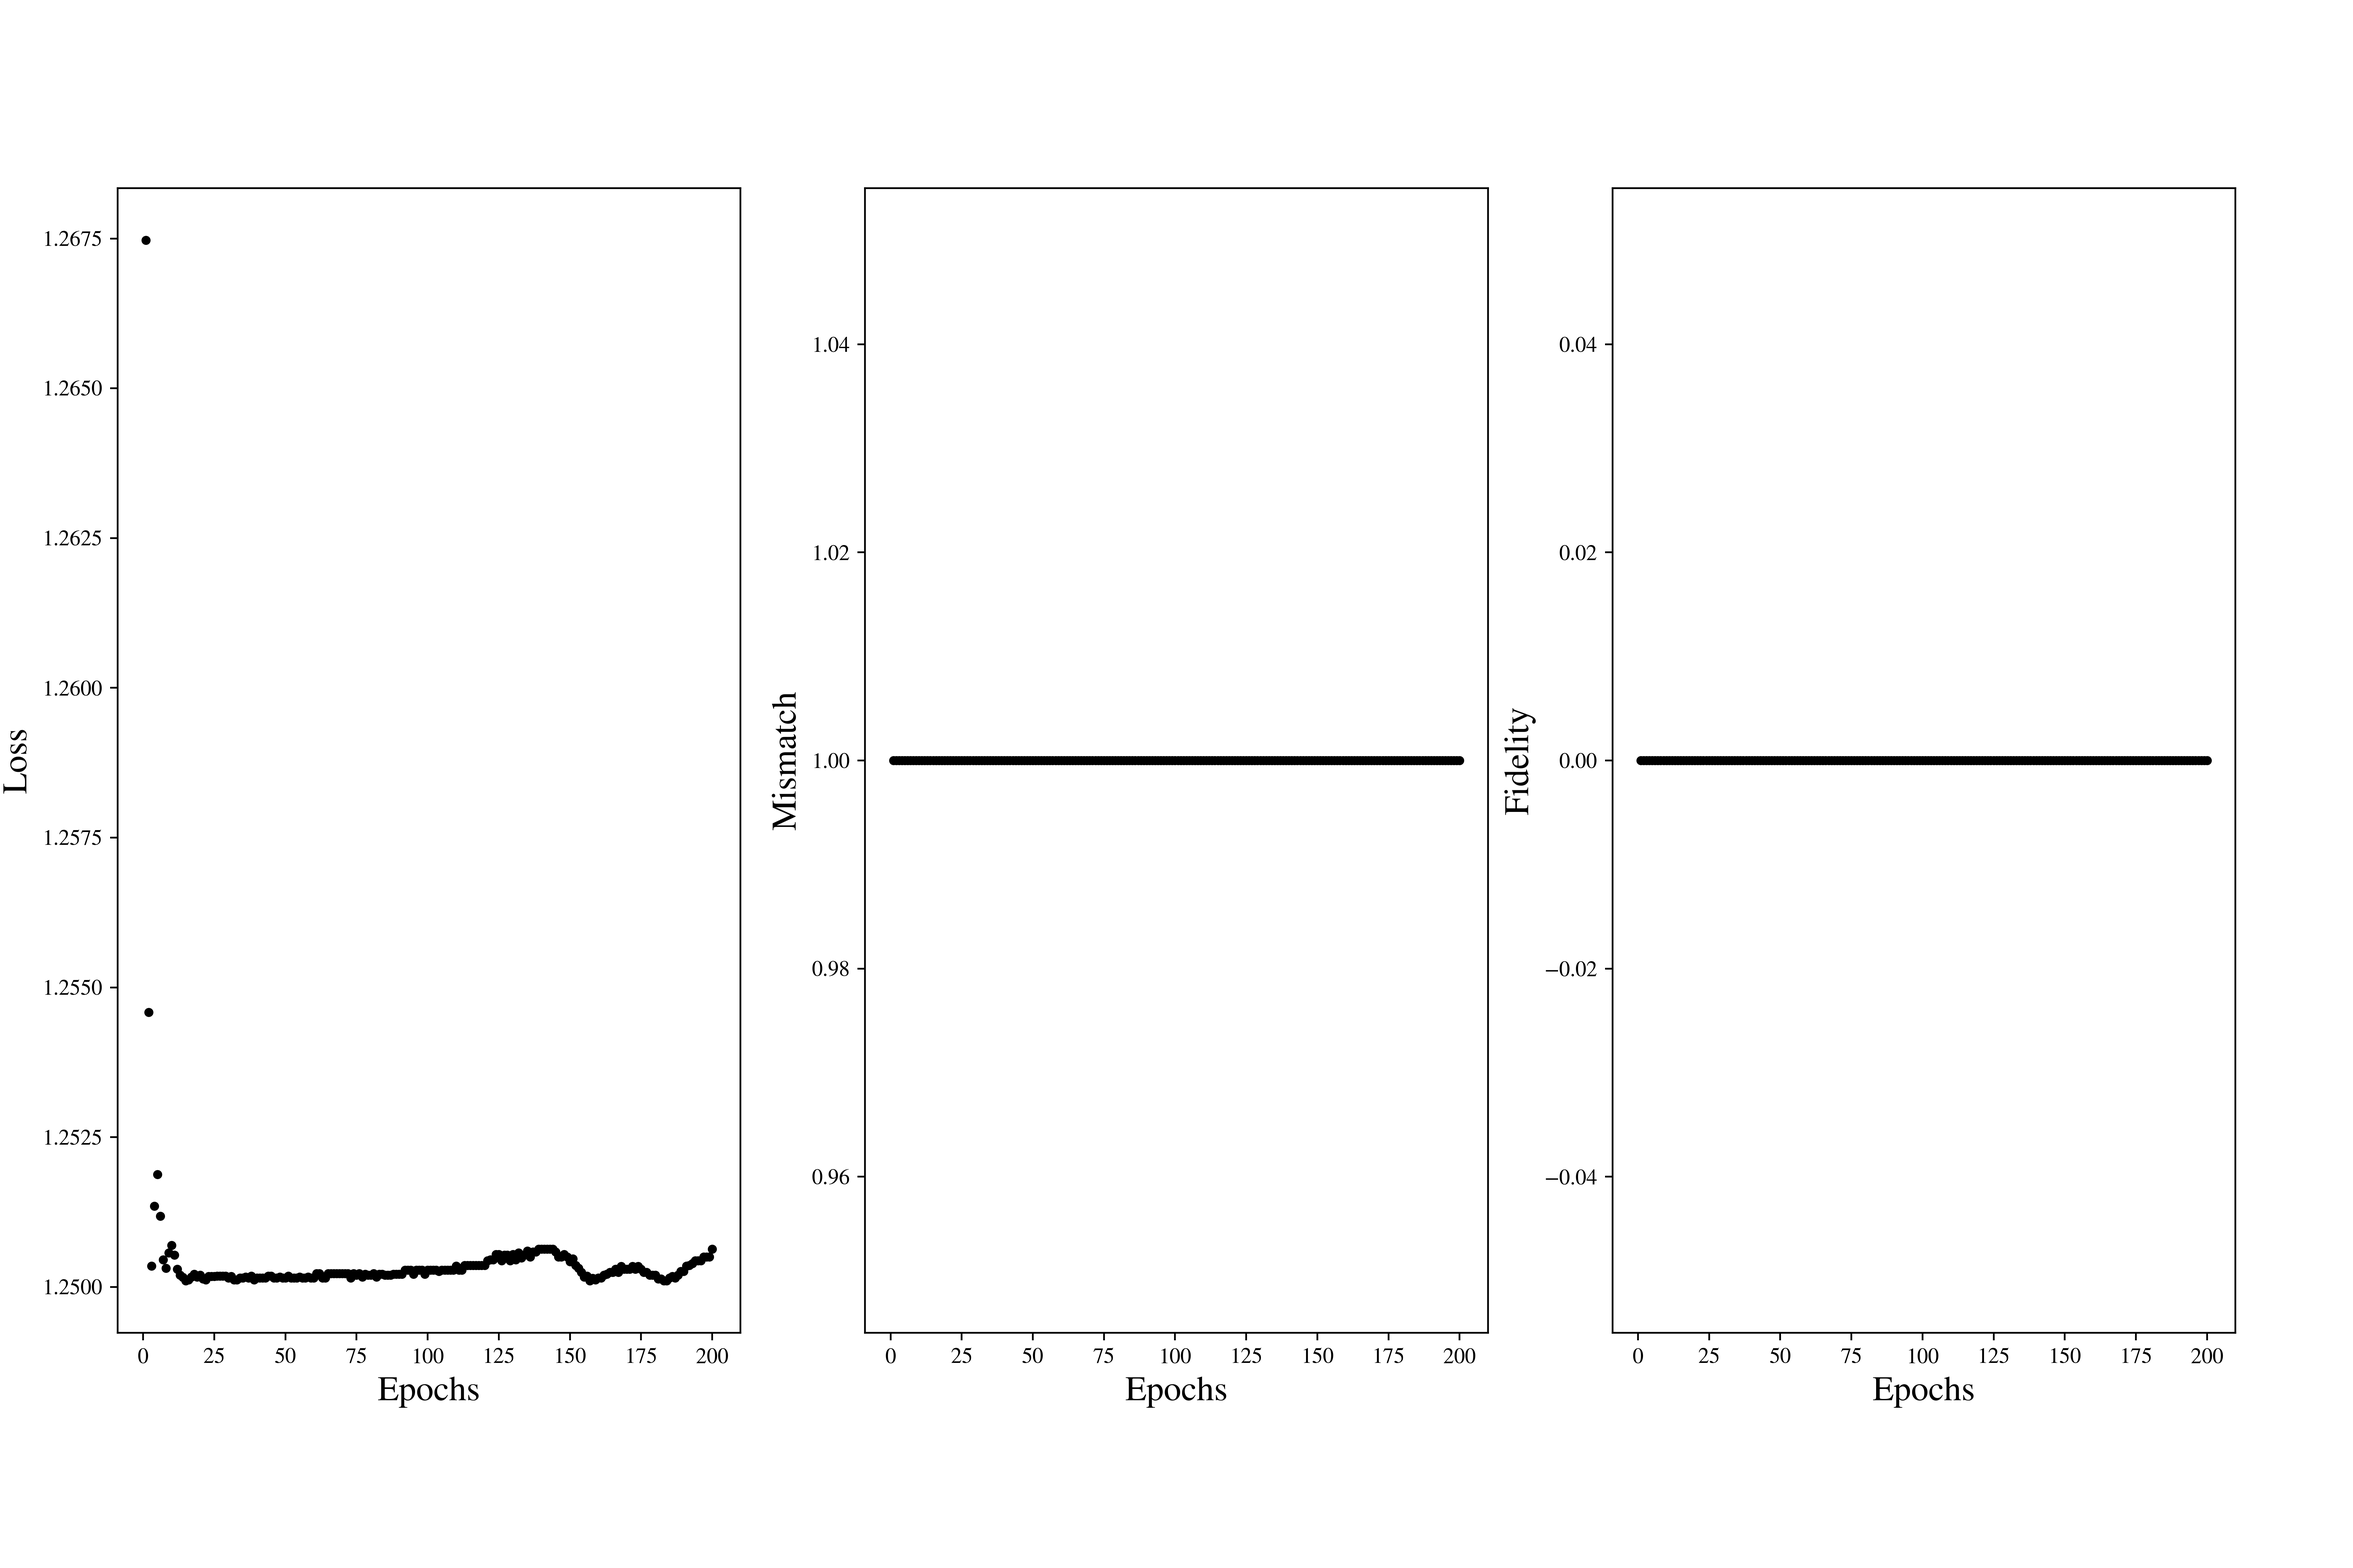
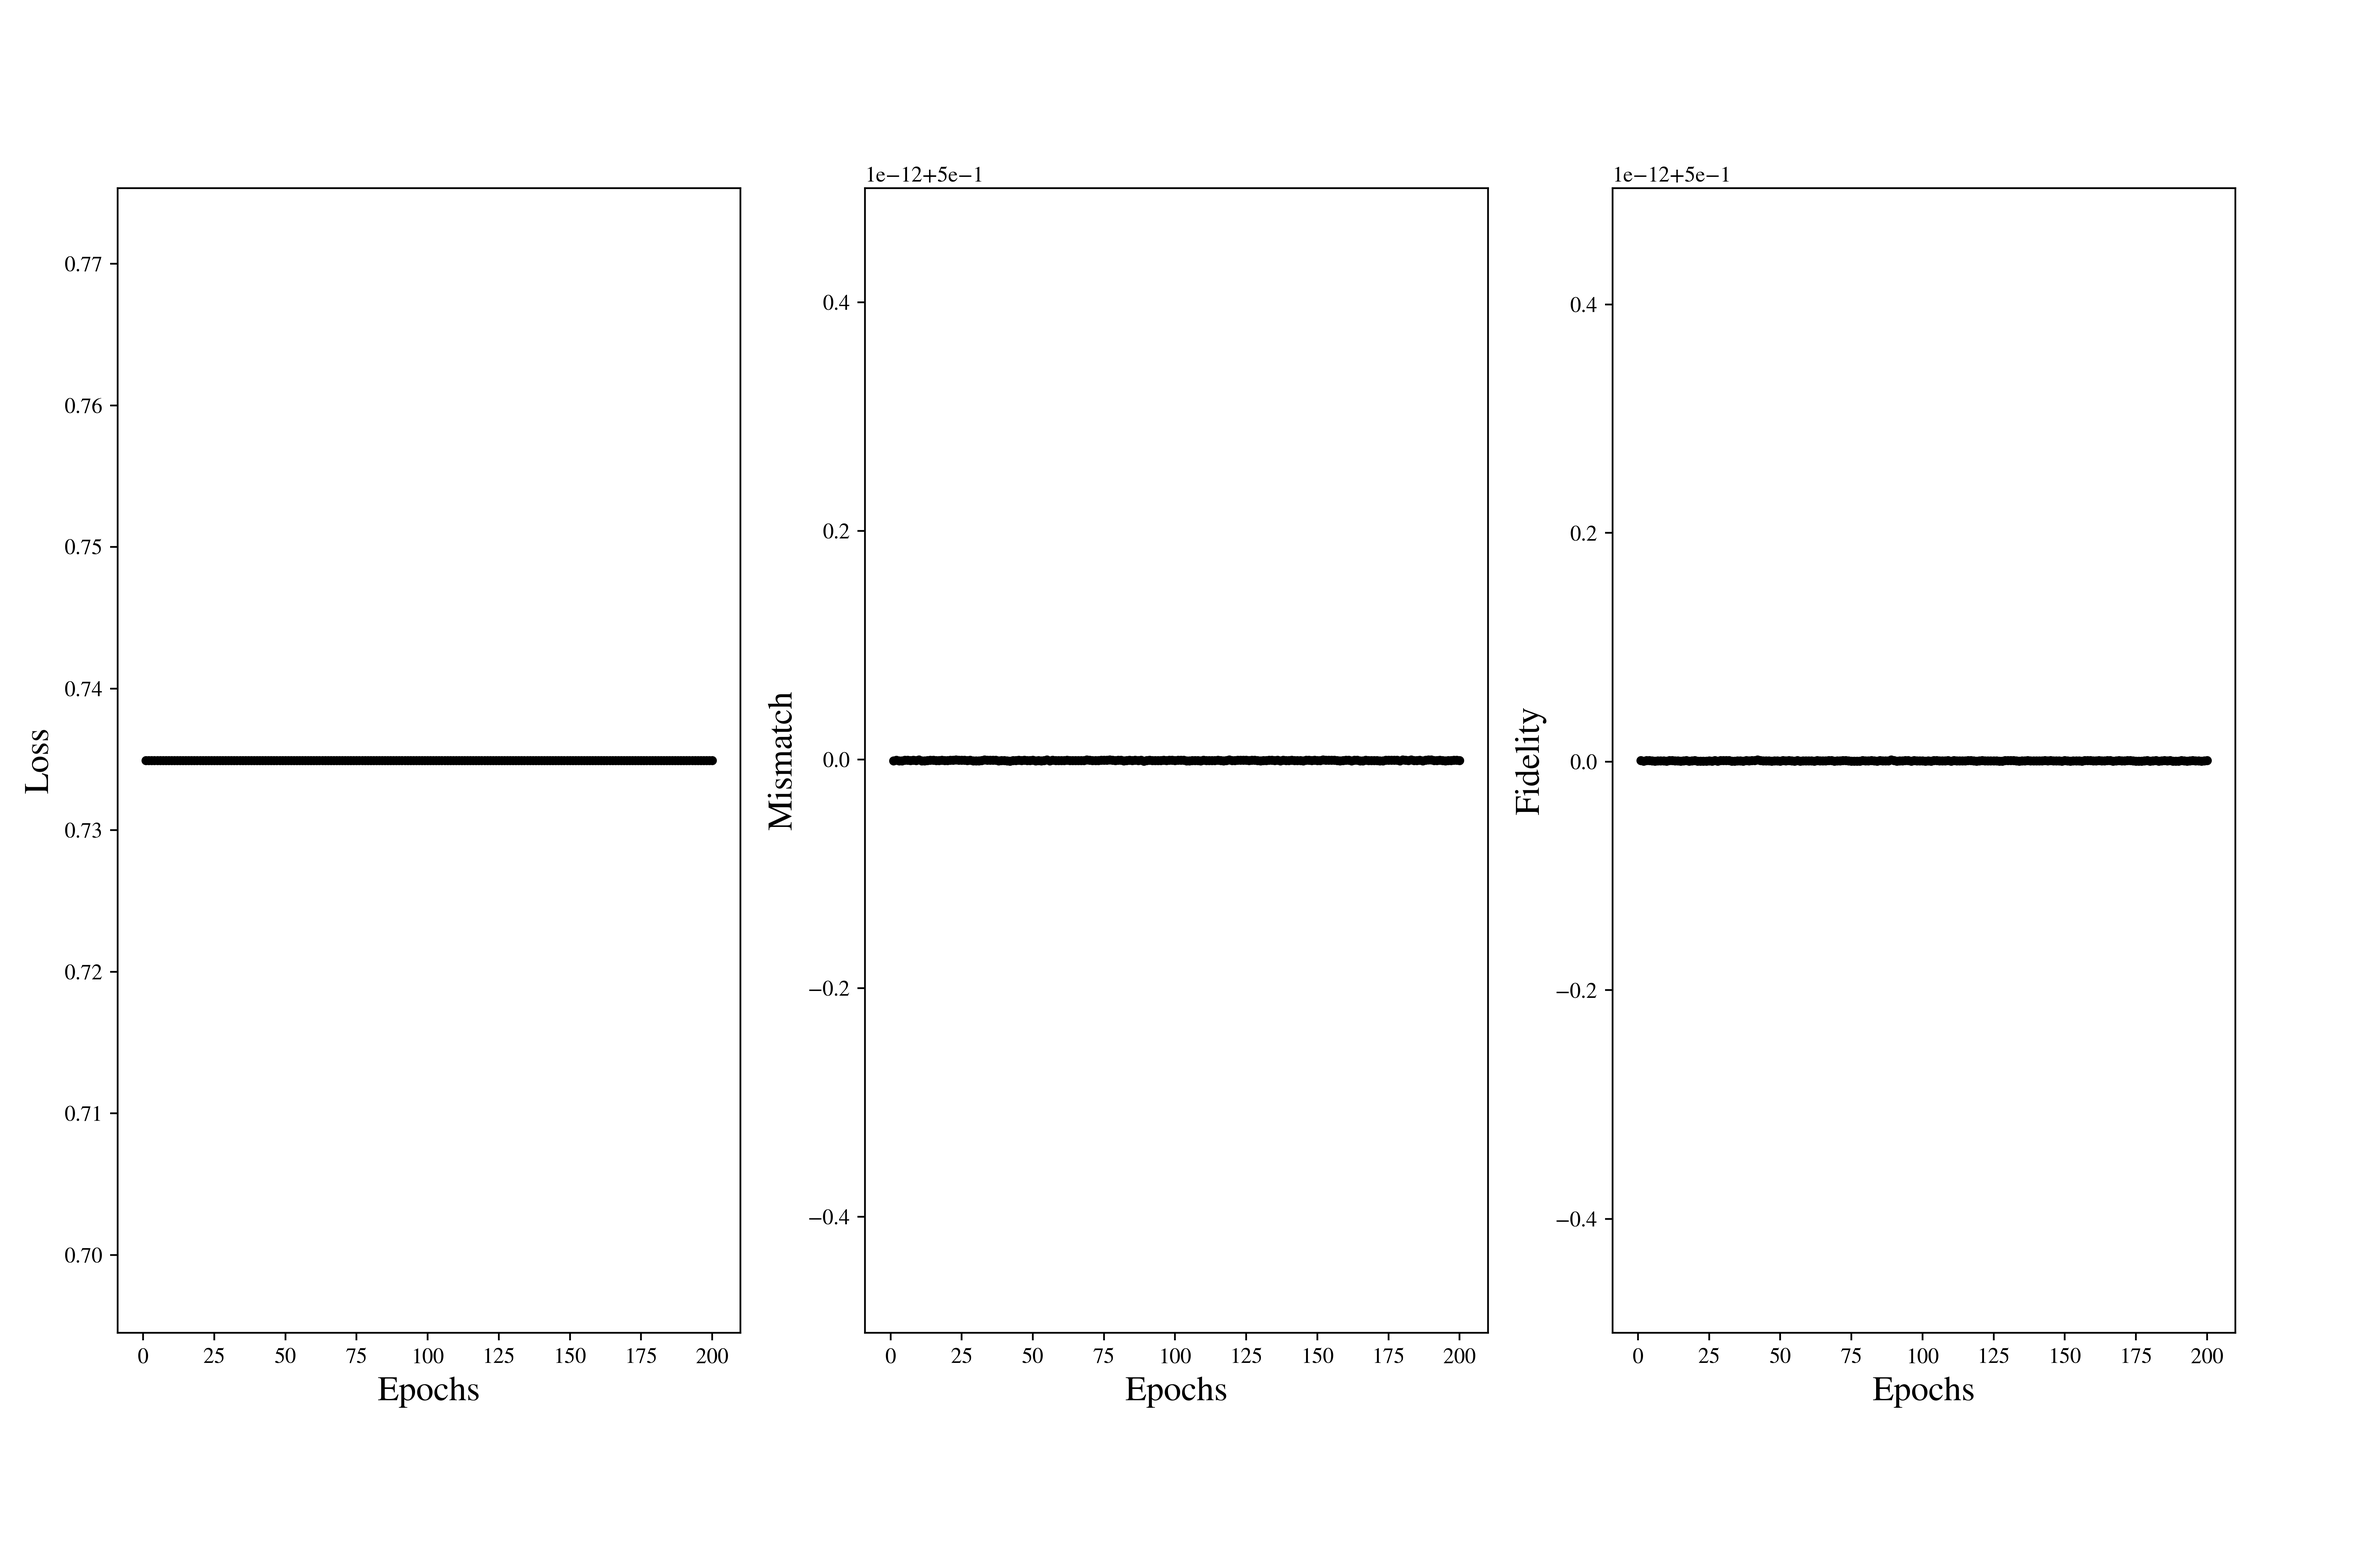
replaced CRy rotations with CU3 rotations in input layers

diff --git a/tools.py b/tools.py
@@ -4,6 +4,7 @@ from qiskit.circuit import ParameterVector
 from itertools import combinations
 from qiskit_machine_learning.neural_networks import SamplerQNN
 from qiskit_machine_learning.connectors import TorchConnector
+from qiskit.circuit.library import CU3Gate, U3Gate
 from qiskit.utils import algorithm_globals
 from qiskit.primitives import Sampler
 from torch.optim import Adam
@@ -12,7 +13,7 @@ from torch import Tensor, no_grad
 import sys, time, os 
 
 """
-Construct an input layer consisting of controlled Ry rotations
+Construct an input layer consisting of controlled single-qubit rotations
 with the n input qubits acting as controls and the m target qubits
 acting as targets. 
 """
@@ -24,13 +25,14 @@ def input_layer(n, m, par_label):
     qubits = list(range(n+m))
 
     # number of parameters used by each gate 
-    num_par = 1 
+    num_par = 3 
 
     # number of gates applied per layer 
     num_gates = n
 
     # set up parameter vector 
     params = ParameterVector(par_label, length= num_par * num_gates)
+    param_index = 0
 
     # apply gates to qubits 
     for i in qubits[:n]:
@@ -39,7 +41,12 @@ def input_layer(n, m, par_label):
         if j >=m:
             j -= m
 
-        qc.cry(params[i], qubits[i], qubits[j+n])
+        par = params[int(param_index) : int(param_index + num_par)]    
+
+        cu3 = U3Gate(par[0],par[1],par[2]).control(1)
+        qc.append(cu3, [qubits[i], qubits[j+n]])
+
+        param_index += num_par
         
 
     # package as instruction
@@ -198,7 +205,7 @@ Both the input state and the circuit weights can be set by accessing circuit par
 after initialisation.  
 """
 
-def generate_network(n,m,L, encode=False):
+def generate_network(n,m,L, encode=False, toggle_IL=False):
 
     # initialise empty input and target registers 
     input_register = QuantumRegister(n, "input")
@@ -215,13 +222,26 @@ def generate_network(n,m,L, encode=False):
     circuit.barrier()
 
     # apply convolutional layers (alternating between AA and NN)
+    # if toggle_IL is True, additional input layers are added after 
+    # each NN
     for i in np.arange(L):
 
-        if i % 2 ==0:
-            circuit.compose(conv_layer_AA(m, u"\u03B8_AA_{0}".format(i // 2)), target_register, inplace=True)
-        elif i % 2 ==1:
-            circuit.compose(conv_layer_NN(m, u"\u03B8_NN_{0}".format(i // 2)), target_register, inplace=True)
+        if toggle_IL==False:
+
+            if i % 2 ==0:
+                circuit.compose(conv_layer_AA(m, u"\u03B8_AA_{0}".format(i // 2)), target_register, inplace=True)
+            elif i % 2 ==1:
+                circuit.compose(conv_layer_NN(m, u"\u03B8_NN_{0}".format(i // 2)), target_register, inplace=True)
         
+        if toggle_IL==True:
+
+            if i % 3 ==0:
+                circuit.compose(conv_layer_AA(m, u"\u03B8_AA_{0}".format(i // 3)), target_register, inplace=True)
+            elif i % 3 ==1:
+                circuit.compose(conv_layer_NN(m, u"\u03B8_NN_{0}".format(i // 3)), target_register, inplace=True)
+            elif i % 3 ==2:
+                circuit.compose(input_layer(n,m, u"\u03B8_IN_{0}".format(i // 3)), circuit.qubits, inplace=True)  
+
         if i != L-1:
             circuit.barrier()
 
@@ -238,7 +258,7 @@ def train_QNN(n,m,L, seed, shots, lr, b1, b2, epochs, func):
     rng = np.random.default_rng(seed=seed)
 
     # generate circuit and set up as QNN 
-    qc = generate_network(n,m,L, encode=True)
+    qc = generate_network(n,m,L, encode=True, toggle_IL=True)
     qnn = SamplerQNN(
             circuit=qc.decompose(),            # decompose to avoid data copying (?)
             sampler=Sampler(options={"shots": shots, "seed": algorithm_globals.random_seed}),
@@ -291,7 +311,7 @@ def train_QNN(n,m,L, seed, shots, lr, b1, b2, epochs, func):
         loss_vals[i]=loss.item()
 
         # set up circuit with calculated weights
-        circ = generate_network(n,m,L, encode=True)
+        circ = generate_network(n,m,L, encode=True,toggle_IL=True)
 
         with no_grad():
             generated_weights = model.weight.detach().numpy()
@@ -361,7 +381,7 @@ def f(x):
 
 ####
 
-train_QNN(n=2,m=2,L=8, seed=1680458526, shots=500, lr=0.01, b1=0.7, b2=0.99, epochs=200, func=f)
+train_QNN(n=2,m=2,L=3, seed=1680458526, shots=500, lr=0.01, b1=0.7, b2=0.99, epochs=200, func=f)
 
 
 """
